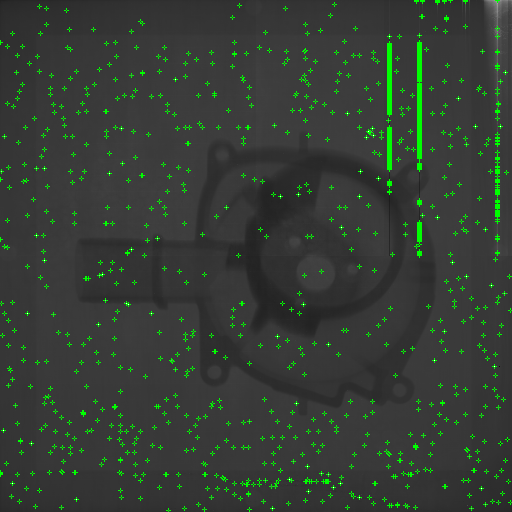
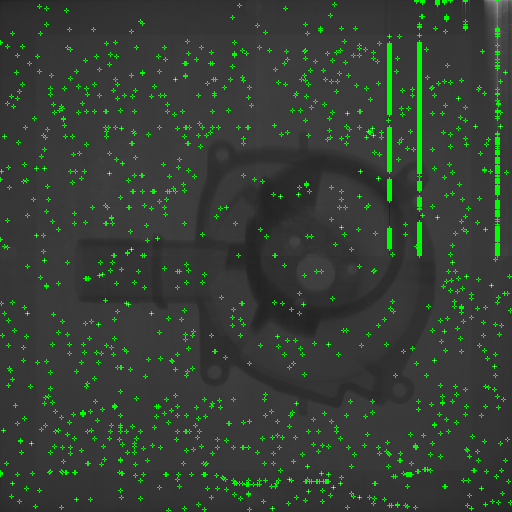
Randwerte gelöst
vill ist es besser vill auch nicht.

diff --git a/.vscode/correction.py b/.vscode/correction.py
@@ -52,13 +52,15 @@ def Gradient(Bild, BPM, Methode=0, Laenge=10):
     hoehe, breite = np.shape(Bild)
     Richtung=-1
     l=int(Laenge/2)
-    for z in range(l,hoehe-l):
-        for s in range(l,breite-l):
+    großBild=np.zeros((hoehe+Laenge,breite+Laenge))
+    großBild[l:hoehe+l,l:breite+l]=Bild
+    for z in range(l,hoehe):
+        for s in range(l,breite):
             if BPM[z,s] !=0:
                 #Gradienten legen
-                vertikal=Bild[z-l:z+l,s]
-                horizontal=Bild[z,s-l:s+l]
-                sub=Bild[z-l:z+l,s-l:s+l]
+                vertikal=großBild[z-l:z+l,s]
+                horizontal=großBild[z,s-l:s+l]
+                sub=großBild[z-l:z+l,s-l:s+l]
                 nordost=np.diagonal(sub)
                 nordwest=np.fliplr(sub).diagonal()
                 #low Gradient berechnen

diff --git a/.vscode/prototy.py b/.vscode/prototy.py
@@ -81,8 +81,8 @@ testImage=np.array([ [[0, 65535], [121, 65535]],
 
 
 #ab hier Quasi die main:
-k,u=detection.MultiPicturePixelCompare(bildDaten[0:30:3],0.60)
-k2=detection.advancedMovingWindow(bildDaten[1],12,Faktor=3)[0]
+k,u=detection.MultiPicturePixelCompare(bildDaten[0:30:3],0.50)
+k2=detection.advancedMovingWindow(bildDaten[1],13,Faktor=2.7)[0]
 #k=detection.advancedMovingWindow(bildDaten[9],Faktor=4)[0]
 #anzahlZeilen, anzahlReihen = np.shape(k)
 #print("Anzahl der Zeilen: ",anzahlZeilen, "Anzahl der Spalten: ",anzahlReihen)
